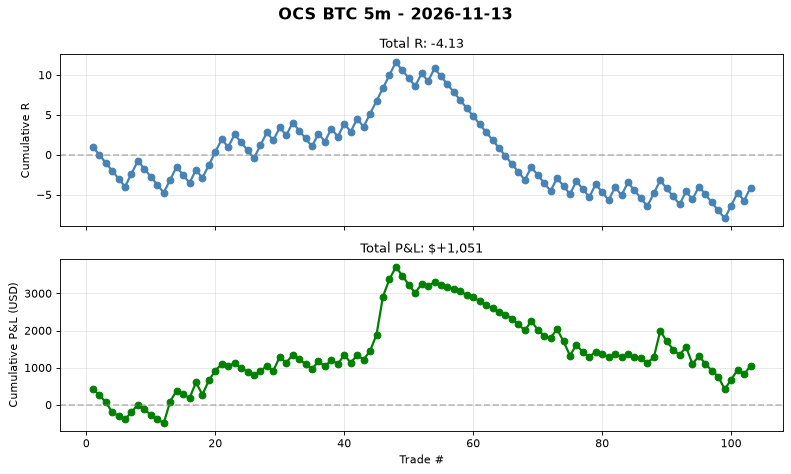
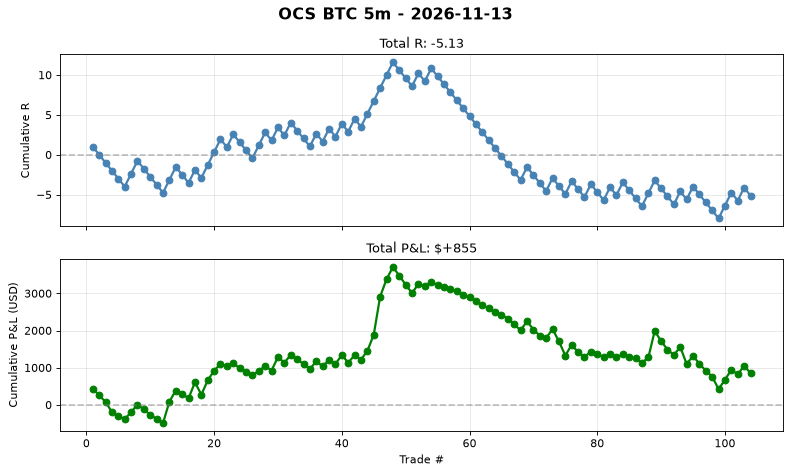
auto(ocs-btc): signal log 2026-11-13T01:16 trades=104

diff --git a/automation/reports/ocs_btc_5m/daily/2026-11-13.md b/automation/reports/ocs_btc_5m/daily/2026-11-13.md
@@ -1,12 +1,12 @@
 # OCS BTC 5m - 2026-11-13
 
 ## Summary
-- **Trades**: 1 (1W / 0L)
-- **Win Rate**: 100.0%
-- **Total R**: +1.62R
-- **Total P&L**: $+232
-- **Avg R**: +1.62R
-- **Profit Factor**: 0.94
+- **Trades**: 2 (1W / 1L)
+- **Win Rate**: 50.0%
+- **Total R**: +0.62R
+- **Total P&L**: $+37
+- **Avg R**: +0.31R
+- **Profit Factor**: 0.92
 
 ## Exit Breakdown
 - T1 (+1.0R): 1
@@ -14,7 +14,7 @@
 - T3 (+2.618R): 0
 - T4 (+3.618R): 0
 - T5 (+5.0R): 0
-- SL (-1.0R): 65
+- SL (-1.0R): 66
 
 ## Best Trade
 - **SHORT** at 71,499 -> T2 71,266
@@ -22,16 +22,16 @@
 - Held for 26 bars
 
 ## Worst Trade
-- **SHORT** at 71,499 -> T2 71,266
-- R = +1.62, P&L = $+232
-- Held for 26 bars
+- **SHORT** at 70,867 -> SL 71,063
+- R = -1.00, P&L = $-196
+- Held for 1 bars
 
 ## Cumulative Stats (Lifetime)
-- Total trades: 103
-- WR: 36.9%
-- Avg R: -0.04
-- Total R: -4.13R
-- Profit Factor: 0.94
+- Total trades: 104
+- WR: 36.5%
+- Avg R: -0.049
+- Total R: -5.13R
+- Profit Factor: 0.92
 
 ## Chart
 See `daily/2026-11-13.png` for cumulative P&L curve.
